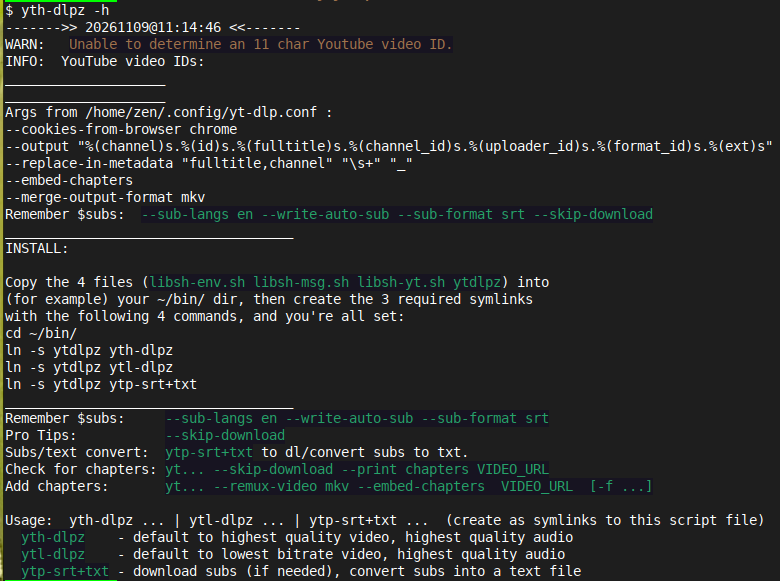
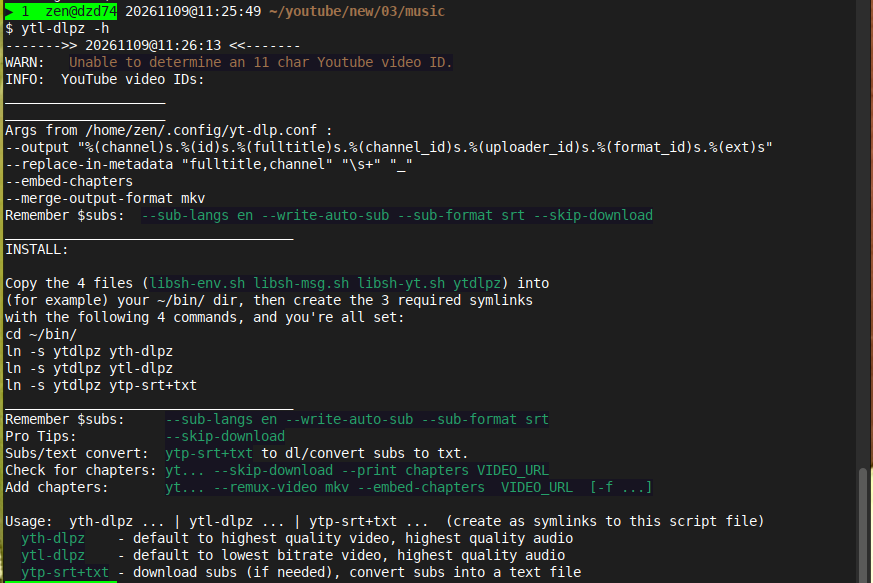
add consistent width screenshots session

Changed region(s): [[0.0, 0.0, 1.0, 1.0]]

diff --git a/README.md b/README.md
@@ -14,7 +14,7 @@ Terminal output is partially colorized to highlight:
 
 The download step shows a fixed-width 10 char progress bar.
 
-![Simple terminal session for `ytl-dlpz` script](Screenshot-20261013.png)
+![Simple terminal session for `ytl-dlpz` script](Screenshot-20261109-download-example.png)
 
 The script symlink names are designed with the leading part optimized for qwerty keyboard and tab-expansion, to make it as quick as possible to download either high quality or low bitrate video.
 
